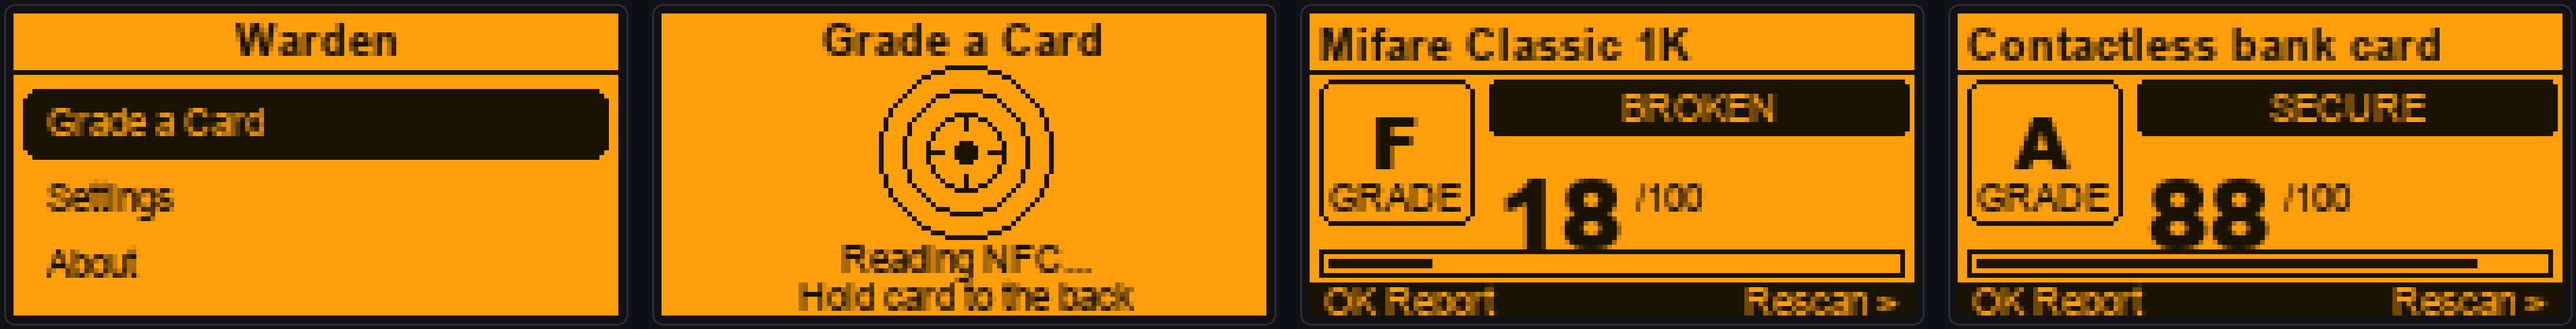
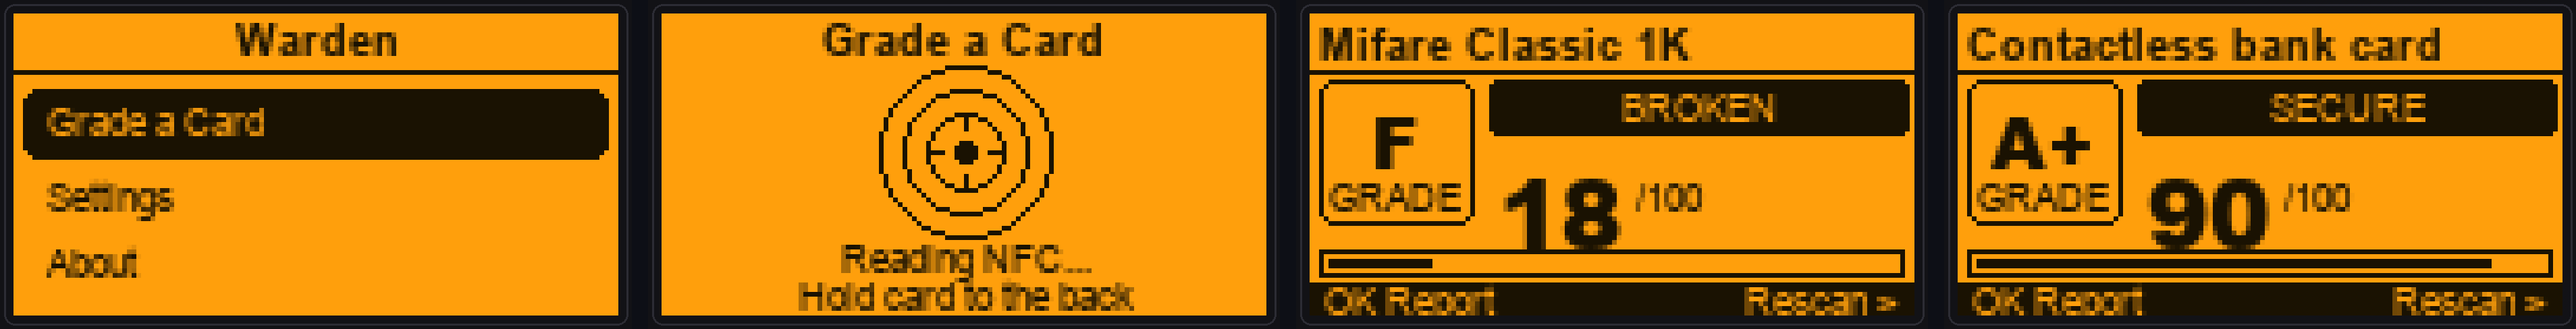
Grade contactless bank cards correctly (no more low score)
Credit/debit (contactless EMV) cards were still landing in the vague
"smartcard - depends on the applet" bucket. Three fixes so they grade as
the secure payment cards they are:

- Harden the EMV probe: accept 0x9000, 0x61xx (more data) or an FCI body
  starting 0x6F as a positive SELECT PPSE, not only a textbook 0x9000.
- Fallback path: when the scanner reports only bare ISO14443-3A but the
  SAK advertises ISO-DEP (bit 0x20), re-read via the 4A poller and EMV-probe
  it, so under-detected bank cards still get recognised.
- Regrade: confirmed EMV -> A+ / Secure (90); any generic ISO-DEP smartcard
  -> A / Secure (80) with accurate, reassuring wording ("real smartcard,
  not cloneable at this layer") instead of a Caution-band "depends on
  applet" verdict. bare-3A case now promotes to EMV when confirmed.

README grade table + EMV mockup updated (A+/90).

Changed region(s): [[0.8108, 0.584, 0.9044, 0.7684], [0.7484, 0.3381, 0.8108, 0.5225]]

diff --git a/helpers/grader.c b/helpers/grader.c
@@ -171,7 +171,7 @@ static void grade_mf_plus(CardGrade* g, const CardReading* r) {
 static void grade_emv(CardGrade* g, const CardReading* r) {
     UNUSED(r);
     strncpy(g->card_name, "Contactless bank card (EMV)", sizeof(g->card_name) - 1);
-    g->score = 88;
+    g->score = 90;
     strncpy(g->headline, "EMV payment - clone-resistant", sizeof(g->headline) - 1);
     finding_add(g, FindingGood, "Unique cryptogram every tap - no replay");
     finding_add(g, FindingGood, "Contactless uses a token, not your CVV2");
@@ -192,21 +192,21 @@ static void grade_iso_dep(CardGrade* g, const CardReading* r, bool type_b) {
     UNUSED(r);
     strncpy(
         g->card_name,
-        type_b ? "ISO 14443-B smartcard" : "ISO 14443-4 smartcard",
+        type_b ? "Smartcard (ISO 14443-B)" : "Smartcard (ISO-DEP)",
         sizeof(g->card_name) - 1);
-    g->score = 72;
-    strncpy(g->headline, "Smartcard - depends on the applet", sizeof(g->headline) - 1);
-    finding_add(g, FindingGood, "ISO-DEP: full APDU smartcard, not memory");
-    finding_add(g, FindingGood, "Can run banking-grade crypto (JavaCard/OS)");
-    finding_add(g, FindingWarn, "Security rides on the applet, unknown here");
-    finding_add(g, FindingInfo, "Common for payment, transit, national ID");
+    g->score = 80;
+    strncpy(g->headline, "Real smartcard - not cloneable", sizeof(g->headline) - 1);
+    finding_add(g, FindingGood, "ISO-DEP APDU smartcard, not open memory");
+    finding_add(g, FindingGood, "On-card crypto - no clone at this layer");
+    finding_add(g, FindingGood, "Family of EMV, e-passports & secure ID");
+    finding_add(g, FindingInfo, "Exact strength is set by the on-card applet");
     snprintf(
         g->verdict,
         sizeof(g->verdict),
-        "This is a real smartcard speaking ISO-DEP (APDU), the same family as "
-        "EMV payment and e-passports. Those can be excellent, but the strength "
-        "is in the on-card applet, which a read can't inspect. Assume good "
-        "unless you know the deployment is doing something naive.");
+        "A real smartcard speaking ISO-DEP (APDU) - the family used by EMV bank "
+        "cards, e-passports and secure IDs. It runs genuine on-card crypto and "
+        "cannot be cloned at this layer. If this is a payment or ID card it is "
+        "secure; only an unusual custom applet would be weak.");
 }
 
 static void grade_iso15693(CardGrade* g, const CardReading* r) {
@@ -336,8 +336,10 @@ void grader_evaluate(const CardReading* reading, CardGrade* out) {
         break;
     case NfcProtocolIso14443_3a:
         /* SAK bit 5 = ISO14443-4 support: a smartcard the scanner didn't climb
-         * into, not a bare UID token. Grade it as ISO-DEP, not F. */
-        if(reading->has_iso3a && (reading->sak & 0x20))
+         * into, not a bare UID token. Grade it as EMV/ISO-DEP, not F. */
+        if(reading->is_emv)
+            grade_emv(out, reading);
+        else if(reading->has_iso3a && (reading->sak & 0x20))
             grade_iso_dep(out, reading, false);
         else
             grade_bare_iso3a(out, reading);

diff --git a/helpers/card_reader.c b/helpers/card_reader.c
@@ -116,7 +116,11 @@ static bool card_reader_probe_emv(Iso14443_4aPoller* poller) {
         if(n >= 2) {
             uint8_t sw1 = bit_buffer_get_byte(rx, n - 2);
             uint8_t sw2 = bit_buffer_get_byte(rx, n - 1);
-            is_emv = (sw1 == 0x90 && sw2 == 0x00); // FCI returned = payment card
+            uint8_t first = bit_buffer_get_byte(rx, 0);
+            /* A payment card answered the SELECT PPSE. Accept any real-world
+             * success: 0x9000 (OK), 0x61xx (more data available), or a body
+             * that starts with the FCI template tag 0x6F (directory returned). */
+            is_emv = (sw1 == 0x90 && sw2 == 0x00) || (sw1 == 0x61) || (first == 0x6F);
         }
     }
 
@@ -284,6 +288,14 @@ static int32_t card_reader_worker(void* context) {
     } else if(r.base == NfcProtocolIso14443_3a) {
         read_iso3a_uid(cr);
         did_read = true;
+        /* The scanner reported only bare 3A, but the SAK says the card is
+         * ISO14443-4 (ISO-DEP) capable - a smartcard the sweep didn't climb
+         * into. Re-read via the 4A poller so we can EMV-probe it. */
+        cr_lock(cr);
+        bool undetected_isodep =
+            (r.top == NfcProtocolIso14443_3a) && cr->poll_ok && (cr->tmp_sak & 0x20u);
+        cr_unlock(cr);
+        if(undetected_isodep) read_iso4a(cr);
     }
     if(did_read) {
         cr_lock(cr);

diff --git a/tools_gen_mockups.py b/tools_gen_mockups.py
@@ -157,6 +157,6 @@ if __name__ == "__main__":
     menu = m_menu()
     scan = m_scan()
     classic = m_grade("screen_grade.png", "Mifare Classic 1K", "F", "BROKEN", 18)
-    emv = m_grade("screen_emv.png", "Contactless bank card", "A", "SECURE", 88)
+    emv = m_grade("screen_emv.png", "Contactless bank card", "A+", "SECURE", 90)
     m_report()
     strip([menu, scan, classic, emv])

diff --git a/README.md b/README.md
@@ -39,10 +39,10 @@ The **technology decides the crypto**, so that's what Warden grades. A Mifare Cl
 
 | Card technology | Grade | Band | Why |
 |---|:---:|:---:|---|
-| **Mifare DESFire** EV1/EV2/EV3 | **A** | 🟢 Secure | AES-128 with mutual authentication + diversified per-card keys. No practical clone. |
-| **Contactless bank card** (EMV) | **A** | 🟢 Secure | Verified by a live SELECT PPSE probe. Signs a one-time cryptogram per tap — can't be replayed or cloned for contactless. |
+| **Mifare DESFire** EV1/EV2/EV3 | **A+** | 🟢 Secure | AES-128 with mutual authentication + diversified per-card keys. No practical clone. |
+| **Contactless bank card** (EMV) | **A+** | 🟢 Secure | Verified by a live SELECT PPSE probe. Signs a one-time cryptogram per tap — can't be replayed or cloned for contactless. |
 | **FeliCa** | **A** | 🟢 Secure | Mutual authentication and encrypted sessions. Backs transit & e-money. |
-| **ISO-DEP smartcard** (14443-4A/B) | **B** | 🟡 Caution | Full APDU smartcard that *isn't* EMV (transit / ID / corporate). Strength lives in the on-card applet. |
+| **ISO-DEP smartcard** (14443-4A/B) | **A** | 🟢 Secure | Real APDU smartcard (EMV / e-passport / secure-ID family). Runs on-card crypto — no clone at this layer. |
 | **Mifare Plus** | **B** | 🟡 Caution | Proper AES at SL3 — but emulates a **broken Classic** at SL1, and you can't see which. |
 | **ISO 15693** / iCLASS-class | **D** | 🟠 Weak | Often UID-only; plain ICODE/SLIX memory reads out. Legacy HID iCLASS shares a leaked key. |
 | **Mifare Ultralight / NTAG** | **D** | 🟠 Weak | No encryption by default — memory and UID copy onto a magic tag. |
